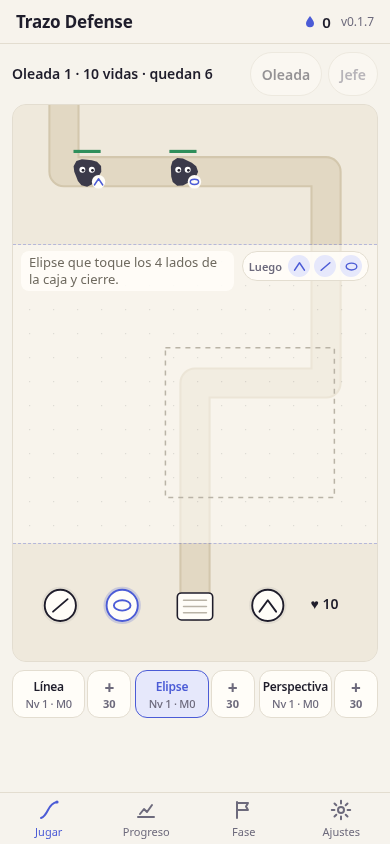
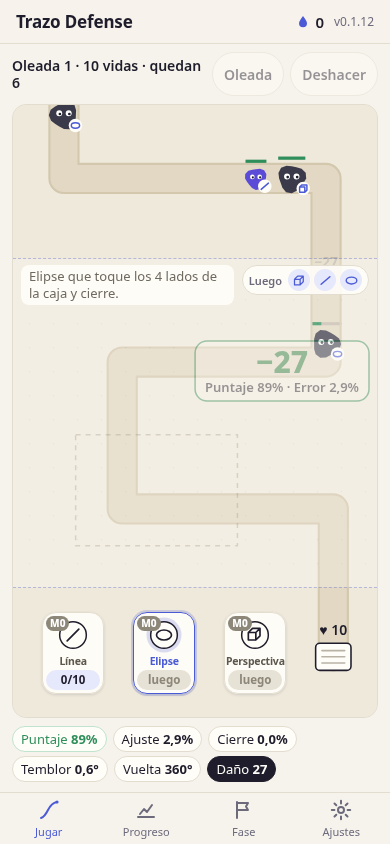
README: captura actual de una partida (#2)
* README: captura actual de una partida

* README: texto alternativo de la captura

diff --git a/README.md b/README.md
@@ -4,7 +4,7 @@
 
 **[▶ Jugar ahora](https://juliangdeveloper.github.io/trazo-defense/)** · gratis, en el navegador, sin instalar
 
-<img src="docs/screenshot.png" alt="Partida de Trazo Defense con monstruos bajando y la caja del ejercicio de elipse" width="320">
+<img src="docs/screenshot.png" alt="Partida de Trazo Defense: una elipse acaba de dañar a un monstruo con 27 de daño y abajo aparecen sus métricas" width="320">
 
 ## Cómo se juega
 
